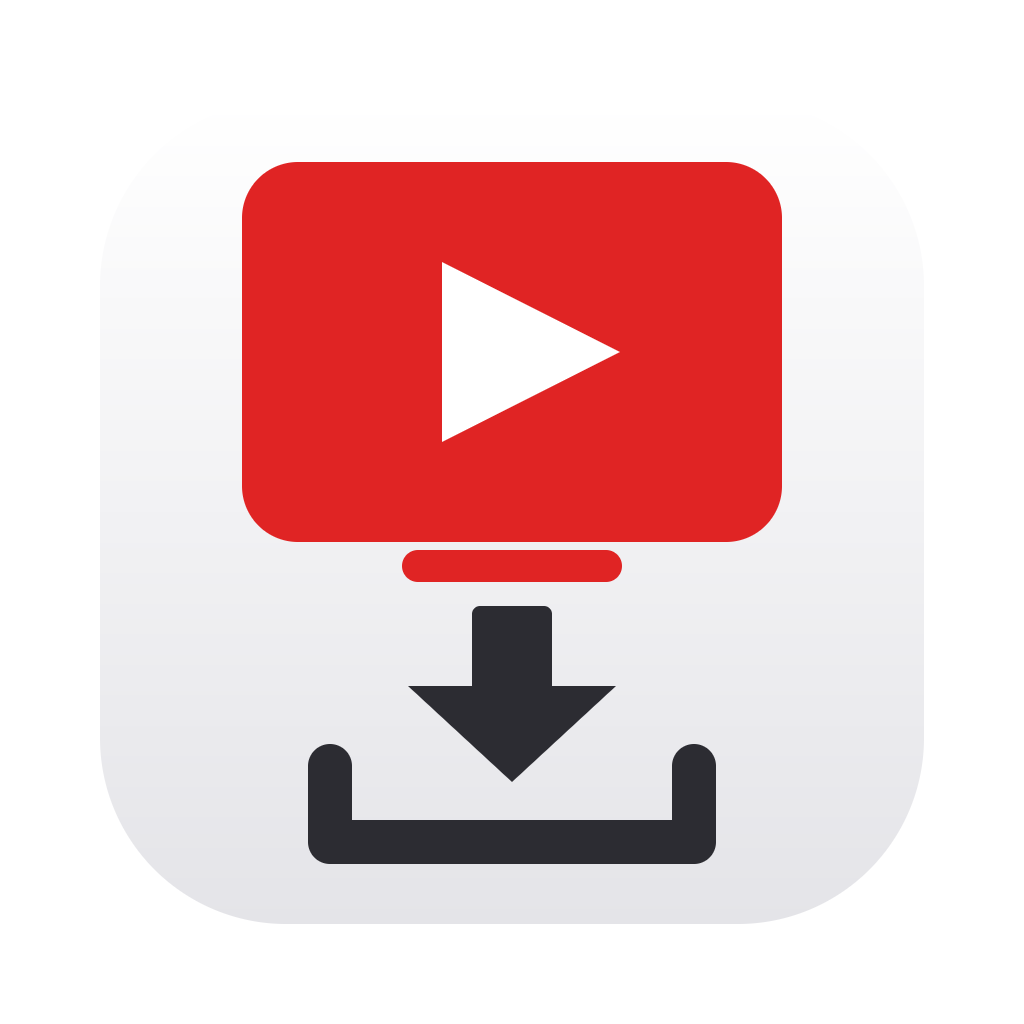
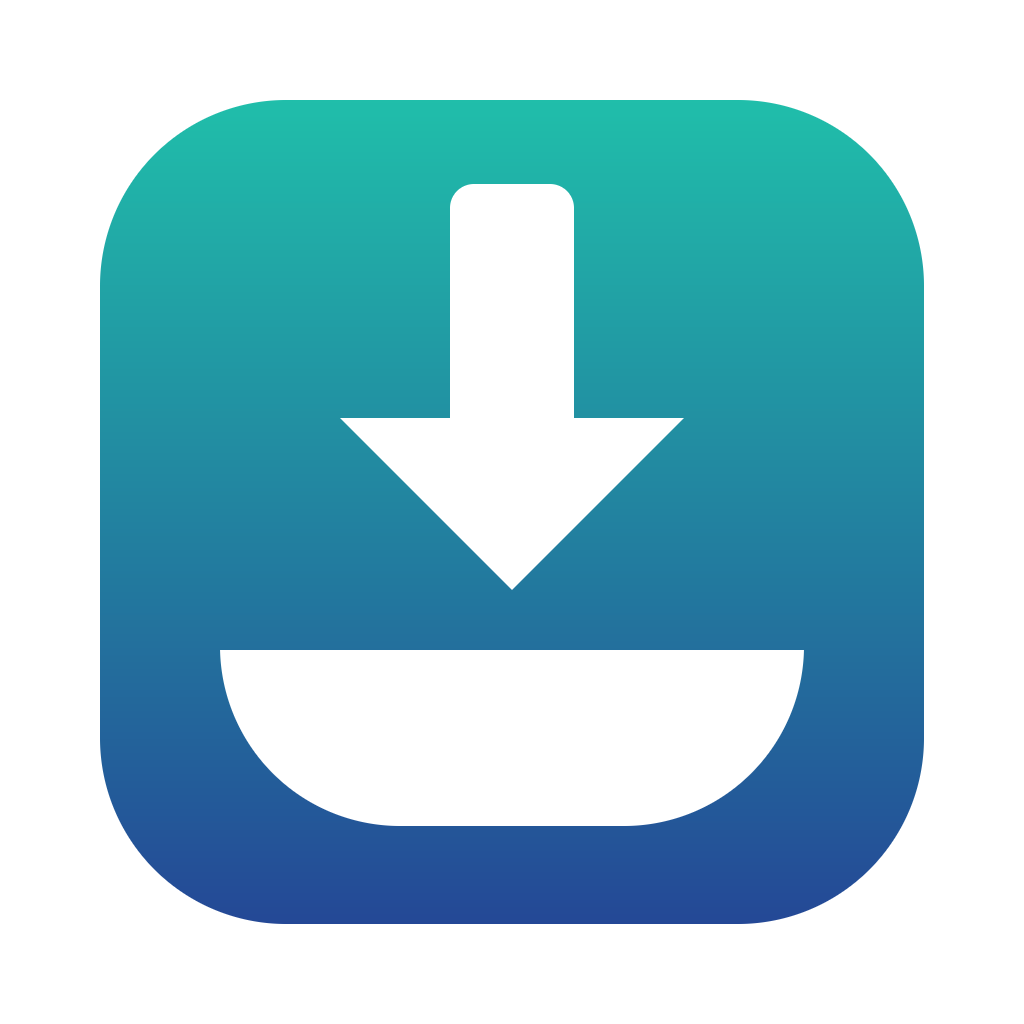
프로그램 이름을 "DamaDama"로 변경, 아이콘 교체, 지원 사이트 안내 (1.0.7)
- 창 제목, .app, 설치 파일, 바로 가기, Windows 설치 폴더 이름 변경
- 아이콘을 화살표와 그릇 모양으로 변경
- URL 입력창 아래에 지원 사이트 안내 표시
- Windows 설치 시 이전 version의 파일과 바로 가기 정리

diff --git a/scripts/make_icon.py b/scripts/make_icon.py
@@ -28,35 +28,21 @@ def polygon(x, y, points):
     return distance
 
 
-def stroke(x, y, points, radius=22):
-    """점들을 차례로 이은 굵은 선까지의 거리."""
-    distance = math.inf
-    for (ax, ay), (bx, by) in zip(points, points[1:]):
-        dx, dy = bx - ax, by - ay
-        t = ((x - ax) * dx + (y - ay) * dy) / (dx * dx + dy * dy)
-        t = min(max(t, 0.0), 1.0)
-        distance = min(distance, math.hypot(x - ax - dx * t, y - ay - dy * t))
-    return distance - radius
+def arrow(x, y):
+    """내려받기를 뜻하는 아래 화살표."""
+    shaft = rounded_box(x, y, 512, 322, 62, 138, 24)
+    head = polygon(x, y, [(340, 418), (684, 418), (512, 590)])
+    return min(shaft, head)
 
 
-def screen(x, y):
-    """받침대가 있는 영상 화면."""
-    body = rounded_box(x, y, 512, 352, 270, 190, 56)
-    stand = rounded_box(x, y, 512, 566, 110, 16, 16)
-    return min(body, stand)
+def bowl(x, y):
+    """받은 것을 담는 그릇. 둥근 사각형의 아래쪽만 사용."""
+    body = rounded_box(x, y, 512, 630, 292, 196, 180)
+    return max(body, 650 - y)
 
 
-def play(x, y):
-    """화면 가운데의 재생 삼각형."""
-    return polygon(x, y, [(442, 262), (620, 352), (442, 442)])
-
-
-def download_mark(x, y):
-    """받침대로 내려오는 화살표. 내려받기를 뜻함."""
-    shaft = rounded_box(x, y, 512, 652, 40, 46, 8)
-    head = polygon(x, y, [(408, 686), (616, 686), (512, 782)])
-    tray = stroke(x, y, [(330, 766), (330, 842), (694, 842), (694, 766)])
-    return min(shaft, head, tray)
+def symbol(x, y):
+    return min(arrow(x, y), bowl(x, y))
 
 
 def coverage(distance):
@@ -73,12 +59,9 @@ def pixel(x, y):
     alpha = coverage(rounded_box(x, y, 512, 512, 412, 412, 186))
     if alpha == 0:
         return (0, 0, 0, 0)
-    # 배경은 위의 흰색에서 아래의 옅은 회색으로
-    color = mix((255, 255, 255), (228, 228, 232), (y - 100) / 824)
-    # 아래에 있는 것부터 차례로 겹쳐 그리기
-    color = mix(color, (224, 36, 36), coverage(screen(x, y)))
-    color = mix(color, (255, 255, 255), coverage(play(x, y)))
-    color = mix(color, (44, 44, 50), coverage(download_mark(x, y)))
+    # 배경은 위의 청록색에서 아래의 남색으로
+    color = mix((32, 190, 170), (36, 72, 150), (y - 100) / 824)
+    color = mix(color, (255, 255, 255), coverage(symbol(x, y)))
     return (*(round(c) for c in color), round(alpha * 255))
 
 

diff --git a/src/main.rs b/src/main.rs
@@ -27,7 +27,7 @@ fn main() -> eframe::Result {
     };
 
     eframe::run_native(
-        "YouTube Download",
+        "DamaDama",
         options,
         Box::new(|cc| Ok(Box::new(App::new(cc.storage)))),
     )
@@ -35,6 +35,11 @@ fn main() -> eframe::Result {
 
 // 화면 하단에 보여줄 저작권 정보
 const COPYRIGHT: &str = "© 2026 아이티해결단(이혁). All rights reserved.";
+
+// URL 입력창 아래에 보여줄 안내. 실제 지원 범위는 yt-dlp에 따라 달라짐
+const SUPPORTED_SITES: &str = "\
+지원 사이트: YouTube, Instagram, TikTok, X, Facebook, Vimeo, SoundCloud 등
+YouTube 외에는 확인 전이며, 로그인이 필요하거나 비공개·DRM 콘텐츠는 받을 수 없어요";
 
 // 화면이 기억해야 하는 값들
 struct App {
@@ -470,6 +475,8 @@ impl eframe::App for App {
                     ui.add(egui::TextEdit::singleline(&mut self.url).desired_width(f32::INFINITY));
                 // 입력창에서 Enter를 눌렀는지
                 let entered = input.lost_focus() && ui.input(|i| i.key_pressed(egui::Key::Enter));
+
+                ui.label(egui::RichText::new(SUPPORTED_SITES).size(11.0).weak());
 
                 ui.add_space(8.0);
                 ui.horizontal(|ui| {
